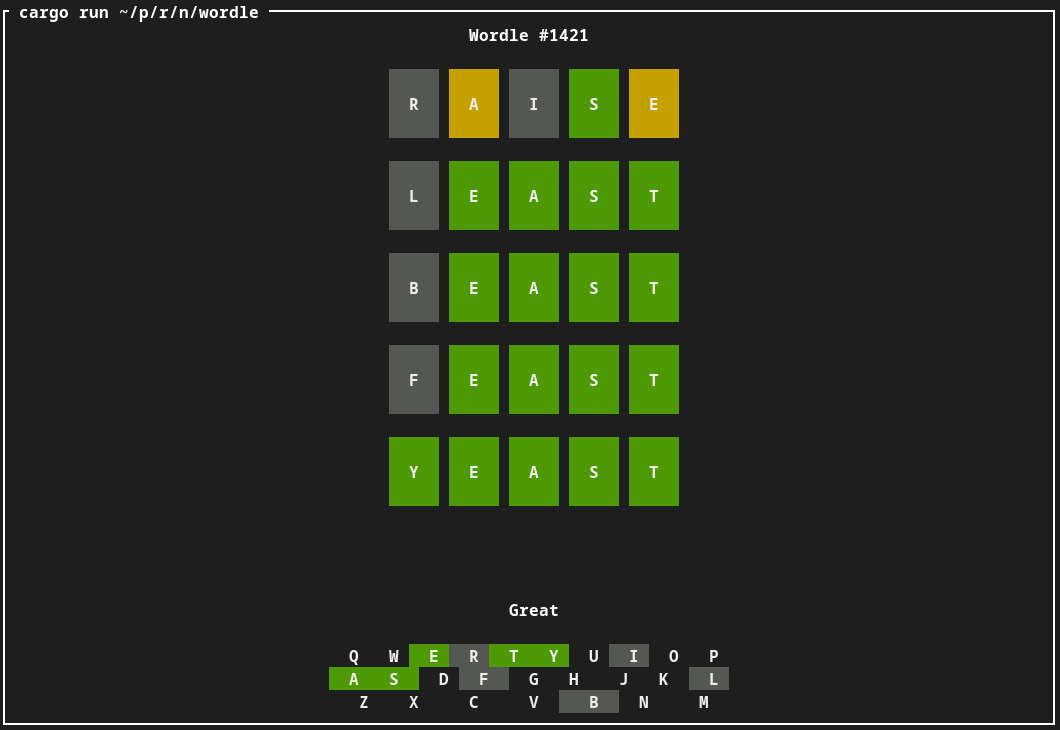
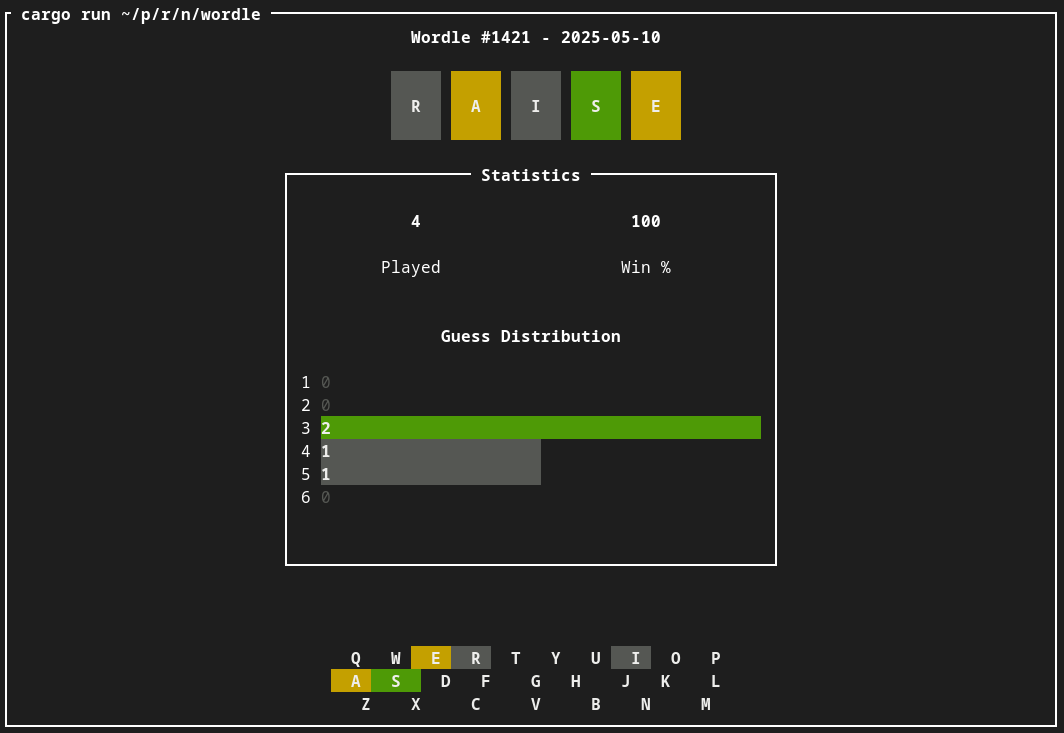
Updated README

diff --git a/README.md b/README.md
@@ -11,4 +11,4 @@ and to have some fun with Rust!
 - [x] Fetches real Wordle puzzles
   - [x] Use arrow keys to play previous puzzles!
 - [x] Saves your progress
-- [ ] Stat tracking
+- [x] Stat tracking
